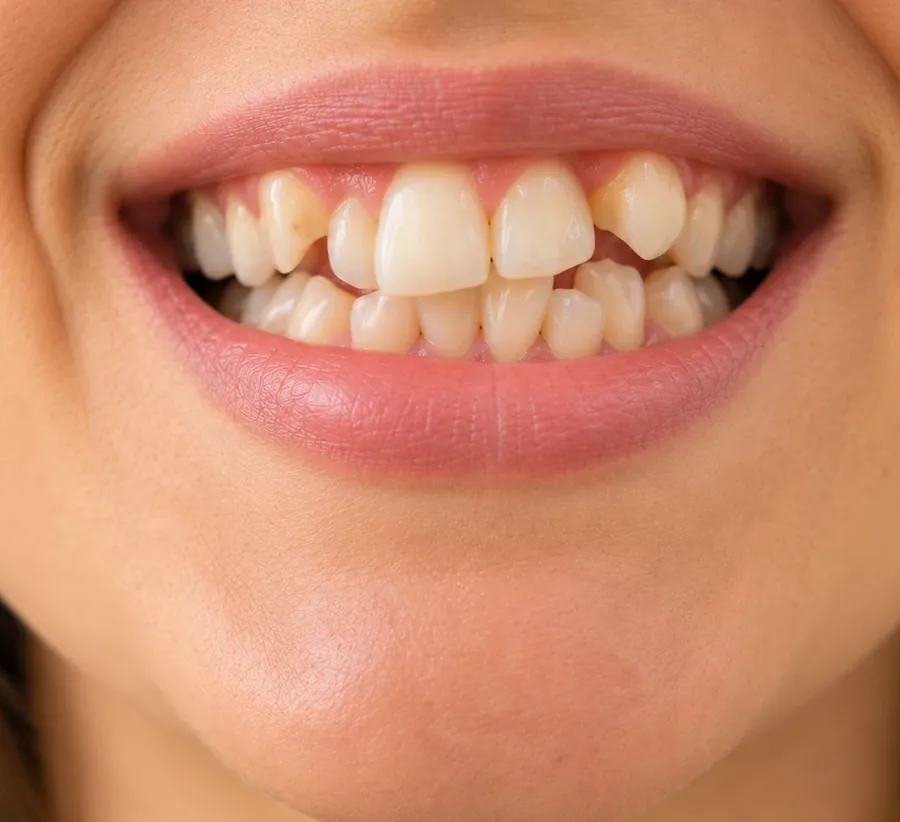
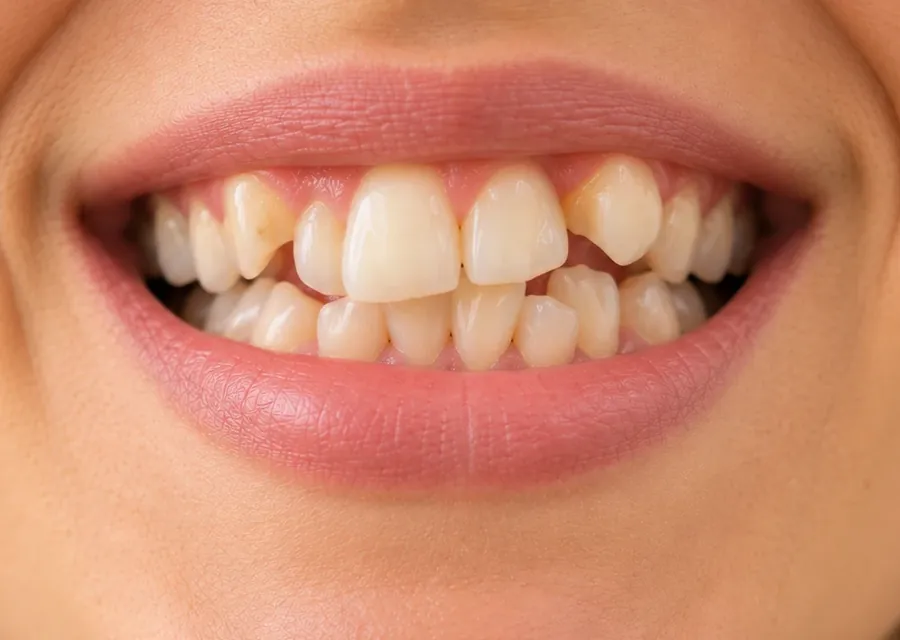
Faz as seis fotos do Para quem é caberem na tela em zoom 100%
No computador a altura da foto acompanha a altura da janela e o texto dos cartões fica mais compacto. As fotos foram recortadas de novo em 900x640, centradas na boca e no objeto, e as duas últimas priorizam o alto para não cortar os dentes.

Claude-Session: https://claude.ai/code/session_013ZBAMFUUhj3y7DouA4XRGk

diff --git a/index.html b/index.html
@@ -34,7 +34,7 @@
     <link rel="preconnect" href="https://fonts.gstatic.com" crossorigin>
     <link href="https://fonts.googleapis.com/css2?family=Montserrat:wght@300;400;500;600;700&display=swap" rel="stylesheet">
     <link rel="preload" as="image" href="assets/profissional/dra-nayane-topo-900.webp" imagesrcset="assets/profissional/dra-nayane-topo-560.webp 560w, assets/profissional/dra-nayane-topo-900.webp 900w" imagesizes="(min-width: 1024px) 460px, 86vw">
-    <link rel="stylesheet" href="styles.css?v=20261107-17">
+    <link rel="stylesheet" href="styles.css?v=20261107-20">
 </head>
 <body>
 
@@ -208,31 +208,31 @@
                 <h2 id="situacoes-titulo">Em qual destas situações <em>você se reconhece?</em></h2>
                 <p>Se alguma delas faz parte da sua rotina, ou da rotina do seu filho adolescente, vale uma avaliação de ortodontia.</p>
             </header>
-            <!-- Cada cartão: foto no topo (assets/situacoes/, WebP 900x822 e 520x475) + título e frase. As fotos são ilustrativas,
+            <!-- Cada cartão: foto no topo (assets/situacoes/, WebP 900x640 e 520x370) + título e frase. As fotos são ilustrativas,
                  geradas por IA a partir de descrições; não são pacientes. Para trocar uma foto, substitua os dois arquivos do cartão. -->
             <ul class="situacoes">
                 <li class="revelar">
-                    <div class="situacao-img"><img src="assets/situacoes/01-dentes-tortos.webp" srcset="assets/situacoes/01-dentes-tortos-520.webp 520w, assets/situacoes/01-dentes-tortos.webp 900w" sizes="(min-width: 1024px) 380px, (min-width: 600px) 46vw, 92vw" width="900" height="822" alt="Close do sorriso de uma pessoa com os dentes da frente apinhados e fora de posição" loading="lazy"></div>
+                    <div class="situacao-img"><img src="assets/situacoes/01-dentes-tortos.webp" srcset="assets/situacoes/01-dentes-tortos-520.webp 520w, assets/situacoes/01-dentes-tortos.webp 900w" sizes="(min-width: 1024px) 380px, (min-width: 600px) 46vw, 92vw" width="900" height="640" alt="Close do sorriso de uma pessoa com os dentes da frente apinhados e fora de posição" loading="lazy"></div>
                     <div class="situacao-texto"><h3>Dentes tortos ou encavalados</h3><p>Dentes fora de posição, um por cima do outro, difíceis de limpar.</p></div>
                 </li>
                 <li class="revelar">
-                    <div class="situacao-img"><img src="assets/situacoes/02-espaco-entre-dentes.webp" srcset="assets/situacoes/02-espaco-entre-dentes-520.webp 520w, assets/situacoes/02-espaco-entre-dentes.webp 900w" sizes="(min-width: 1024px) 380px, (min-width: 600px) 46vw, 92vw" width="900" height="822" alt="Close do sorriso de uma pessoa com um espaço entre os dois dentes da frente de cima" loading="lazy"></div>
+                    <div class="situacao-img"><img src="assets/situacoes/02-espaco-entre-dentes.webp" srcset="assets/situacoes/02-espaco-entre-dentes-520.webp 520w, assets/situacoes/02-espaco-entre-dentes.webp 900w" sizes="(min-width: 1024px) 380px, (min-width: 600px) 46vw, 92vw" width="900" height="640" alt="Close do sorriso de uma pessoa com um espaço entre os dois dentes da frente de cima" loading="lazy"></div>
                     <div class="situacao-texto"><h3>Espaço entre os dentes</h3><p>Aquele espaço que incomoda no sorriso e nas fotos.</p></div>
                 </li>
                 <li class="revelar">
-                    <div class="situacao-img"><img src="assets/situacoes/03-dentes-para-frente.webp" srcset="assets/situacoes/03-dentes-para-frente-520.webp 520w, assets/situacoes/03-dentes-para-frente.webp 900w" sizes="(min-width: 1024px) 380px, (min-width: 600px) 46vw, 92vw" width="900" height="822" alt="Close do sorriso, de lado, de uma pessoa com os dentes da frente de cima projetados para a frente" loading="lazy"></div>
+                    <div class="situacao-img"><img src="assets/situacoes/03-dentes-para-frente.webp" srcset="assets/situacoes/03-dentes-para-frente-520.webp 520w, assets/situacoes/03-dentes-para-frente.webp 900w" sizes="(min-width: 1024px) 380px, (min-width: 600px) 46vw, 92vw" width="900" height="640" alt="Close do sorriso, de lado, de uma pessoa com os dentes da frente de cima projetados para a frente" loading="lazy"></div>
                     <div class="situacao-texto"><h3>Dentes para a frente</h3><p>Dentes da frente projetados, que mudam o jeito de sorrir.</p></div>
                 </li>
                 <li class="revelar">
-                    <div class="situacao-img"><img src="assets/situacoes/04-mordida.webp" srcset="assets/situacoes/04-mordida-520.webp 520w, assets/situacoes/04-mordida.webp 900w" sizes="(min-width: 1024px) 380px, (min-width: 600px) 46vw, 92vw" width="900" height="822" alt="Close do sorriso de uma pessoa com um vão entre os dentes de cima e os de baixo ao morder" loading="lazy"></div>
+                    <div class="situacao-img"><img src="assets/situacoes/04-mordida.webp" srcset="assets/situacoes/04-mordida-520.webp 520w, assets/situacoes/04-mordida.webp 900w" sizes="(min-width: 1024px) 380px, (min-width: 600px) 46vw, 92vw" width="900" height="640" alt="Close do sorriso de uma pessoa com um vão entre os dentes de cima e os de baixo ao morder" loading="lazy"></div>
                     <div class="situacao-texto"><h3>Mordida que não encaixa</h3><p>Os dentes de cima e de baixo não se encontram como deveriam.</p></div>
                 </li>
                 <li class="revelar">
-                    <div class="situacao-img"><img src="assets/situacoes/05-voltou-a-sair-do-lugar.webp" srcset="assets/situacoes/05-voltou-a-sair-do-lugar-520.webp 520w, assets/situacoes/05-voltou-a-sair-do-lugar.webp 900w" sizes="(min-width: 1024px) 380px, (min-width: 600px) 46vw, 92vw" width="900" height="822" alt="Pessoa sorrindo, com os dentes de baixo encavalados, segurando uma contenção de acrílico com fio metálico" loading="lazy"></div>
+                    <div class="situacao-img"><img src="assets/situacoes/05-voltou-a-sair-do-lugar.webp" srcset="assets/situacoes/05-voltou-a-sair-do-lugar-520.webp 520w, assets/situacoes/05-voltou-a-sair-do-lugar.webp 900w" sizes="(min-width: 1024px) 380px, (min-width: 600px) 46vw, 92vw" width="900" height="640" alt="Pessoa sorrindo, com os dentes de baixo encavalados, segurando uma contenção de acrílico com fio metálico" loading="lazy"></div>
                     <div class="situacao-texto"><h3>Já usou aparelho e os dentes mexeram</h3><p>Fez tratamento antes e percebeu que os dentes voltaram a sair do lugar.</p></div>
                 </li>
                 <li class="revelar">
-                    <div class="situacao-img"><img src="assets/situacoes/06-aparelho-discreto.webp" srcset="assets/situacoes/06-aparelho-discreto-520.webp 520w, assets/situacoes/06-aparelho-discreto.webp 900w" sizes="(min-width: 1024px) 380px, (min-width: 600px) 46vw, 92vw" width="900" height="822" alt="Pessoa sorrindo, segurando um alinhador transparente" loading="lazy"></div>
+                    <div class="situacao-img"><img src="assets/situacoes/06-aparelho-discreto.webp" srcset="assets/situacoes/06-aparelho-discreto-520.webp 520w, assets/situacoes/06-aparelho-discreto.webp 900w" sizes="(min-width: 1024px) 380px, (min-width: 600px) 46vw, 92vw" width="900" height="640" alt="Pessoa sorrindo, segurando um alinhador transparente" loading="lazy"></div>
                     <div class="situacao-texto"><h3>Quer um aparelho mais discreto</h3><p>Prefere uma opção que apareça menos no dia a dia e no trabalho.</p></div>
                 </li>
             </ul>

diff --git a/styles.css b/styles.css
@@ -216,12 +216,25 @@ body.menu-aberto { overflow: hidden; }
 /* Cartões com foto no topo (referência: seção "Em qual dessas situações você mais se vê?" do site de salas da Vallenci) */
 .situacoes { list-style: none; margin: 0; padding: 0; display: grid; gap: 18px; }
 .situacoes li { display: flex; flex-direction: column; overflow: hidden; border: 1px solid var(--borda); border-radius: 22px; background: #fff; transition: transform .4s var(--ease), box-shadow .4s var(--ease), border-color .4s; }
-.situacao-img { aspect-ratio: 900 / 822; overflow: hidden; background: var(--menta); }
+.situacao-img { aspect-ratio: 900 / 640; overflow: hidden; background: var(--menta); }
 .situacao-img img { width: 100%; height: 100%; object-fit: cover; transition: transform .8s var(--ease); }
 .situacao-texto { padding: 20px 22px 24px; }
 .situacoes h3 { font-size: 1.2rem; margin-bottom: 6px; }
 .situacoes p { margin: 0; font-size: .94rem; }
 .nota-ilustrativa { margin-top: 18px; text-align: center; }
+/* Computador: a altura da foto acompanha a altura da janela, para as duas fileiras (6 fotos) caberem juntas na tela em zoom 100%.
+   As fotos já foram recortadas em 900x640 centradas na boca e no objeto, então o corte extra é pequeno. */
+@media (min-width: 1024px) {
+    .situacoes { gap: 20px; }
+    .situacao-img { aspect-ratio: auto; height: clamp(140px, 25vh, 260px); }
+    /* Fotos 5 e 6: a boca fica no alto e o objeto embaixo, então o corte extra prioriza o alto */
+    .situacoes li:nth-child(5) .situacao-img img { object-position: center 10%; }
+    .situacoes li:nth-child(6) .situacao-img img { object-position: center 30%; }
+    .situacao-texto { padding: 14px 18px 16px; }
+    .situacoes h3 { margin-bottom: 4px; font-size: 1.05rem; }
+    .situacoes p { font-size: .88rem; line-height: 1.5; }
+}
+}
 @media (hover: hover) { .situacoes li:hover { transform: translateY(-6px); box-shadow: var(--sombra-p); border-color: var(--marca); } .situacoes li:hover .situacao-img img { transform: scale(1.04); } }
 
 /* Aparelhos */
@@ -531,7 +544,7 @@ body.sem-pendencias #avaliacoes { display: none; }
     .aparelhos { grid-template-columns: repeat(3, 1fr); align-items: stretch; }
     .aparelho-destaque { transform: translateY(-14px); }
     .convenios { grid-template-columns: 1.1fr .9fr; }
-    .situacoes { grid-template-columns: repeat(3, 1fr); gap: 24px; }
+    .situacoes { grid-template-columns: repeat(3, 1fr); gap: 20px; }
     /* computador: etapas alternando os lados da linha, com leve sobreposição */
     .passos { gap: 0; }
     .passos::before { left: 50%; margin-left: -1px; }
